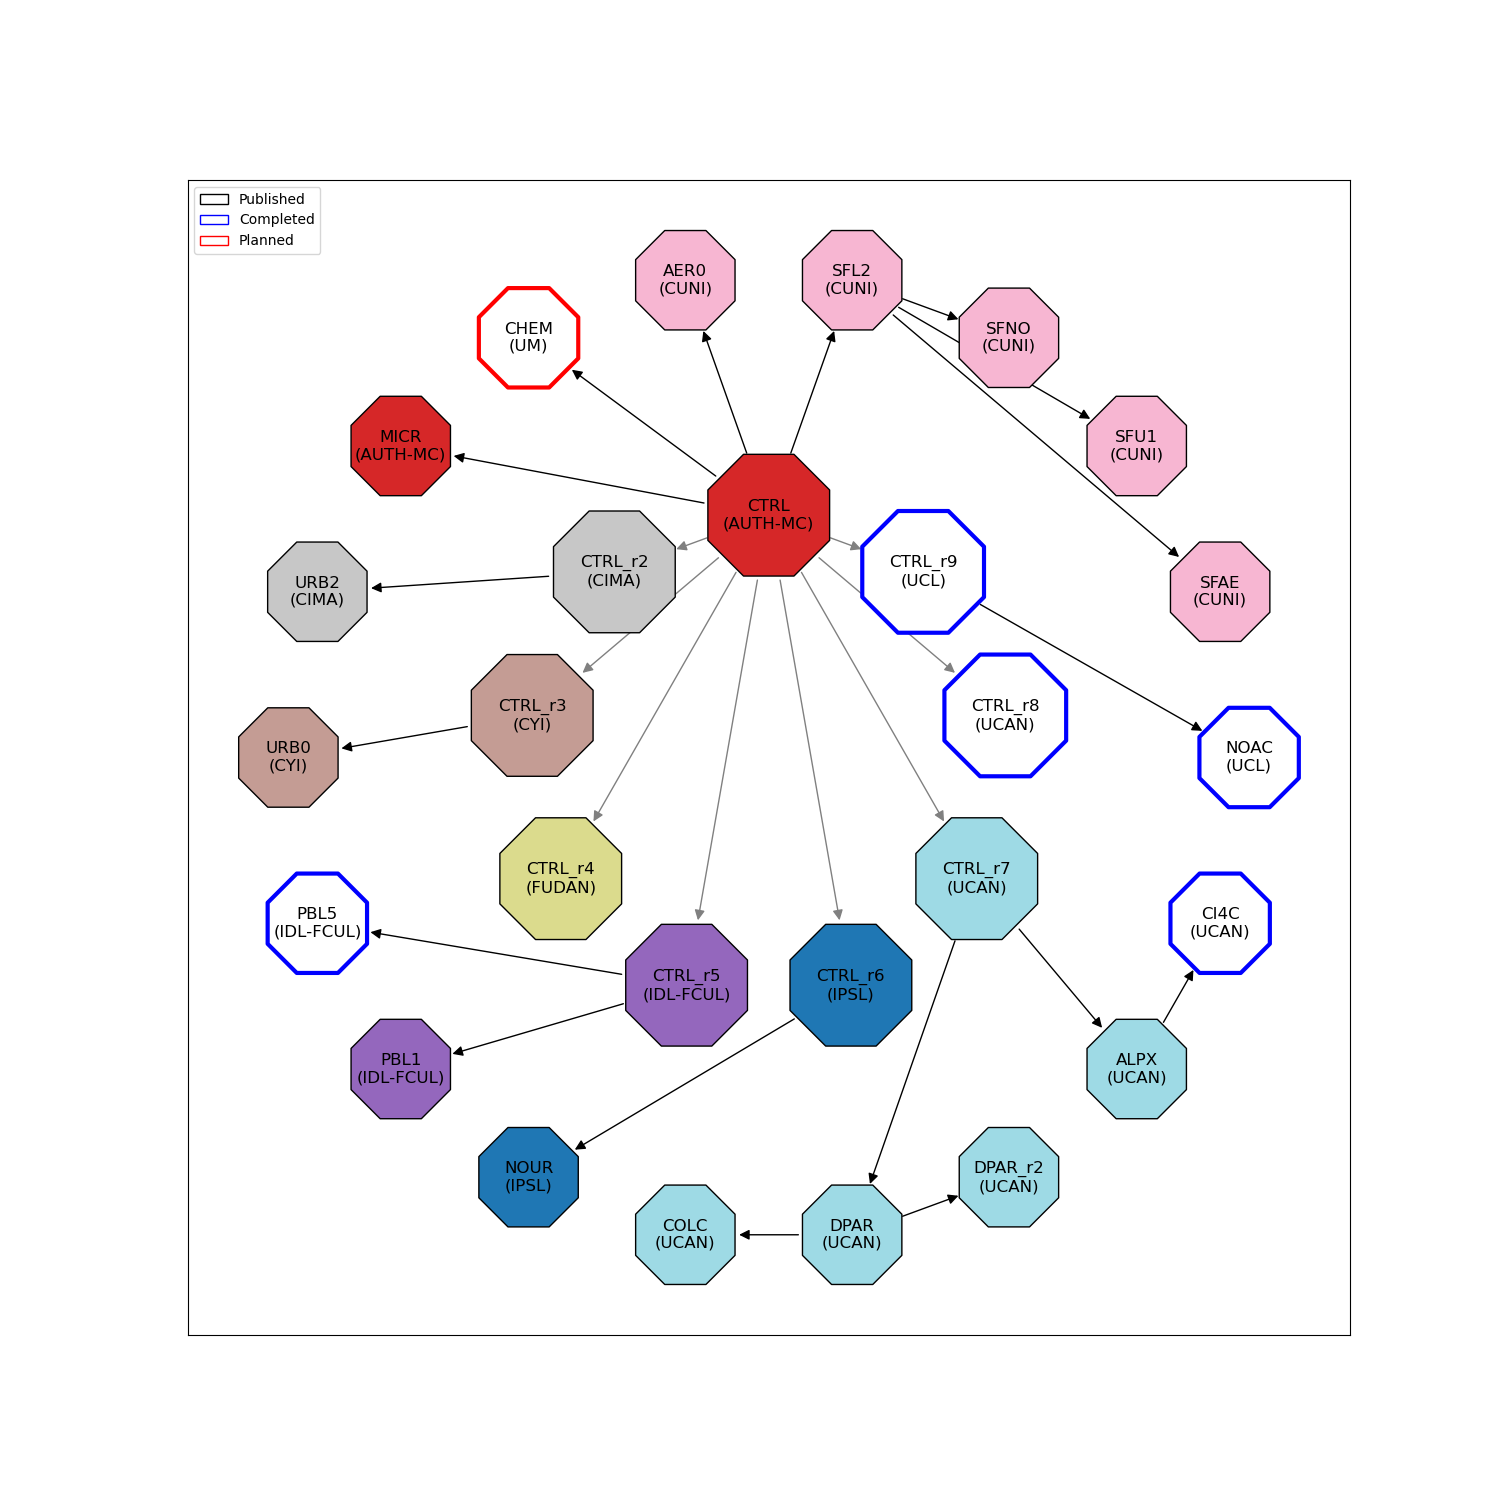
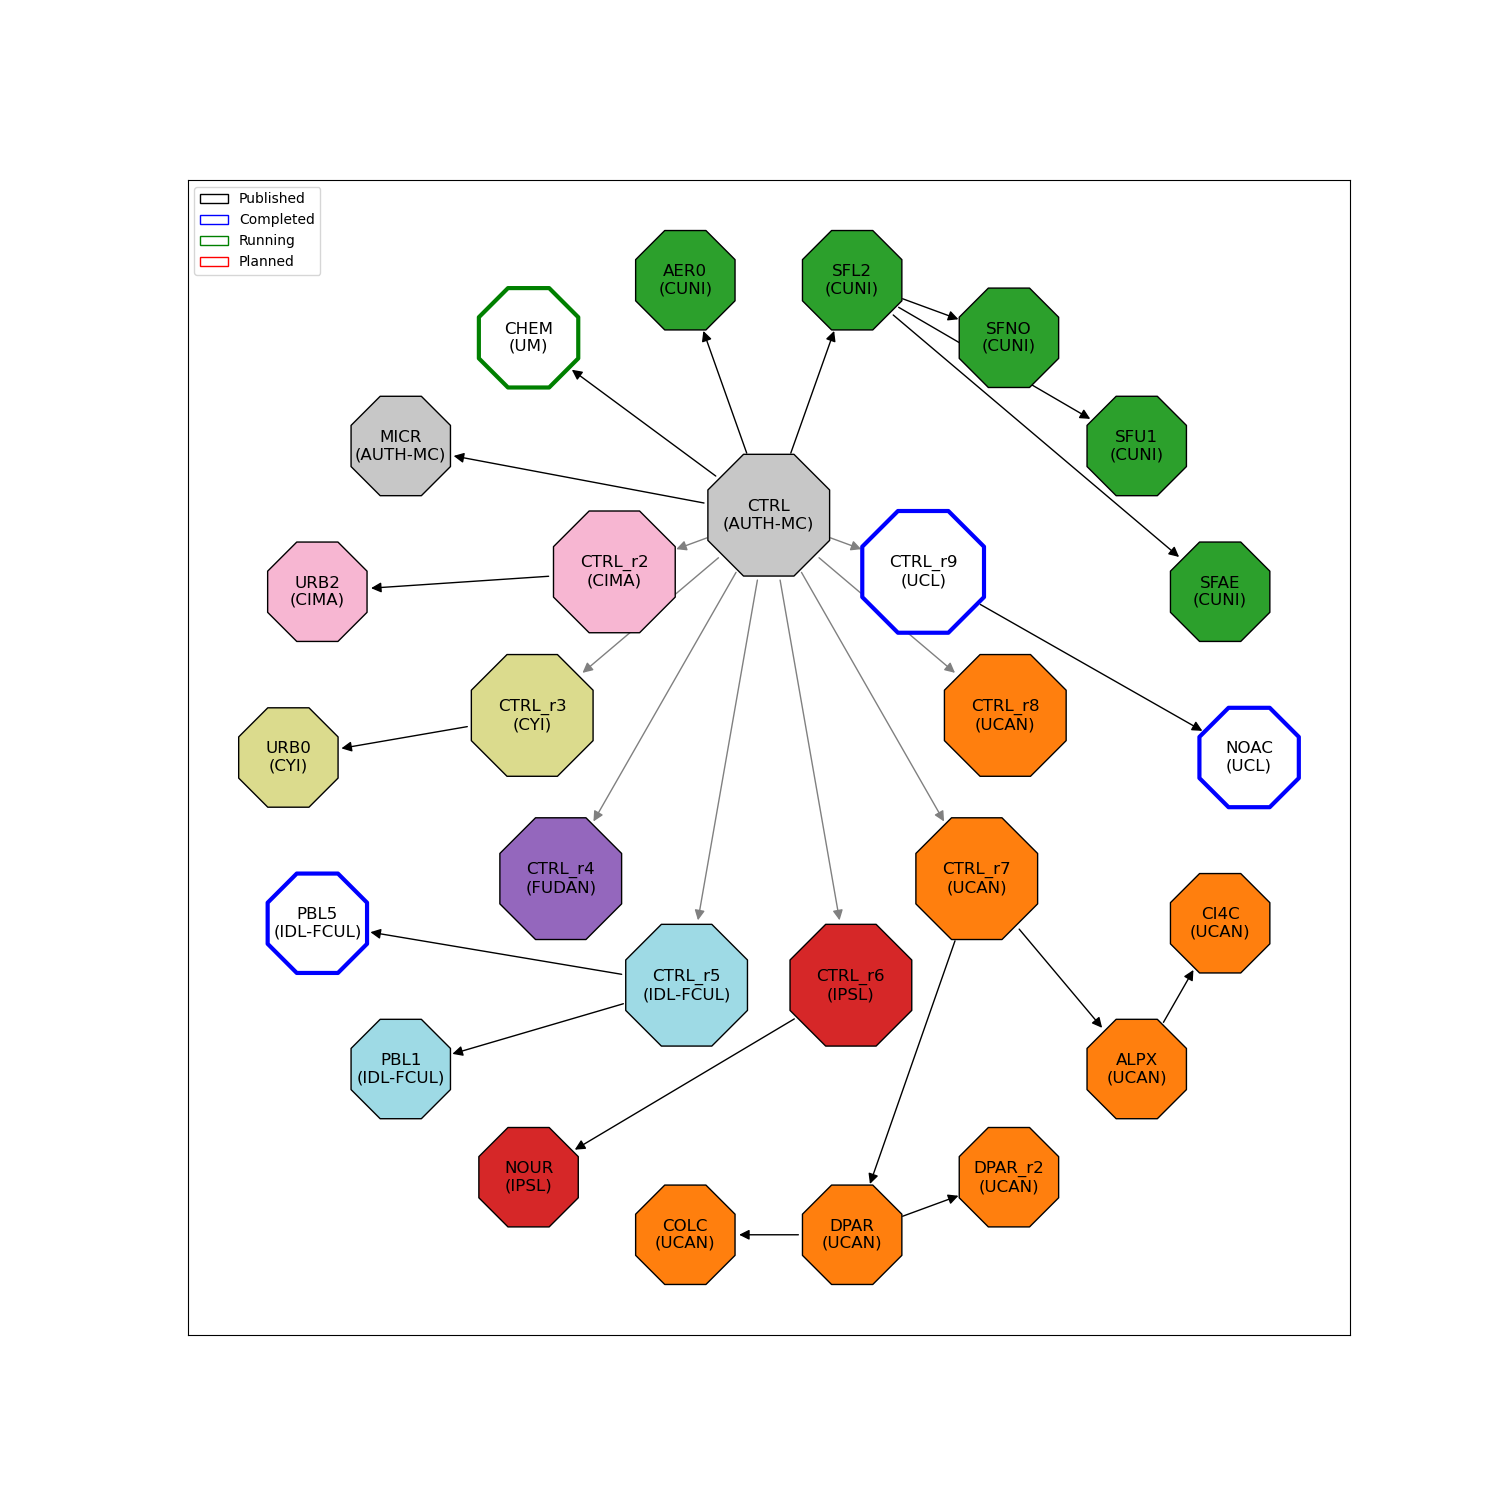
Update status of UCAN and UM simulations.

diff --git a/STAGE-0/exp_design.py b/STAGE-0/exp_design.py
@@ -80,6 +80,10 @@ def plot_graph(simul_data):
             color_map.append('white')
             node_border_colors.append('red')
             node_border_widths.append(3)
+        elif status in ["running"]:
+            color_map.append('white')
+            node_border_colors.append('green')
+            node_border_widths.append(3)
         else:
             print(f'Status of the simuation', node, 'not known, check!')  # Nodes not published or completed will be white
             exit()
@@ -108,6 +112,7 @@ def plot_graph(simul_data):
     legend_elements = [
         Patch(facecolor='white', edgecolor='black', label='Published'),
         Patch(facecolor='white', edgecolor='blue', label='Completed'),
+        Patch(facecolor='white', edgecolor='green', label='Running'),
         Patch(facecolor='white', edgecolor='red', label='Planned'),
     ]
 
